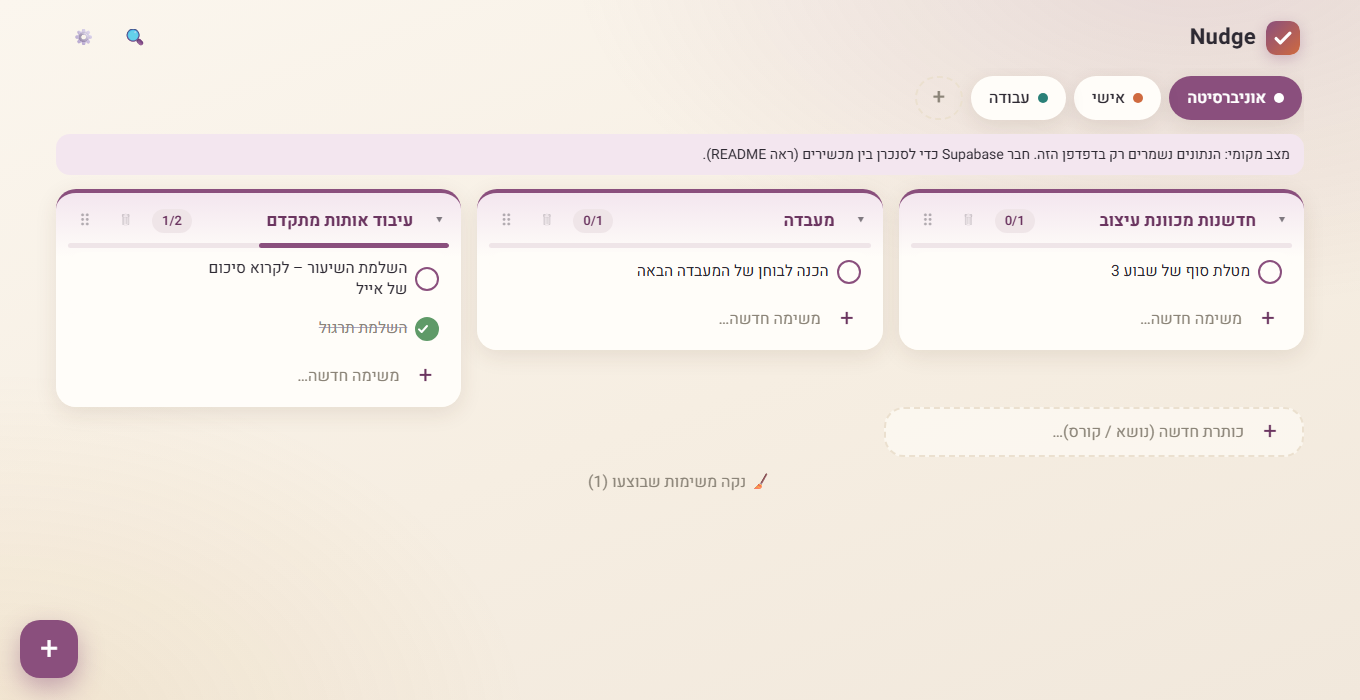
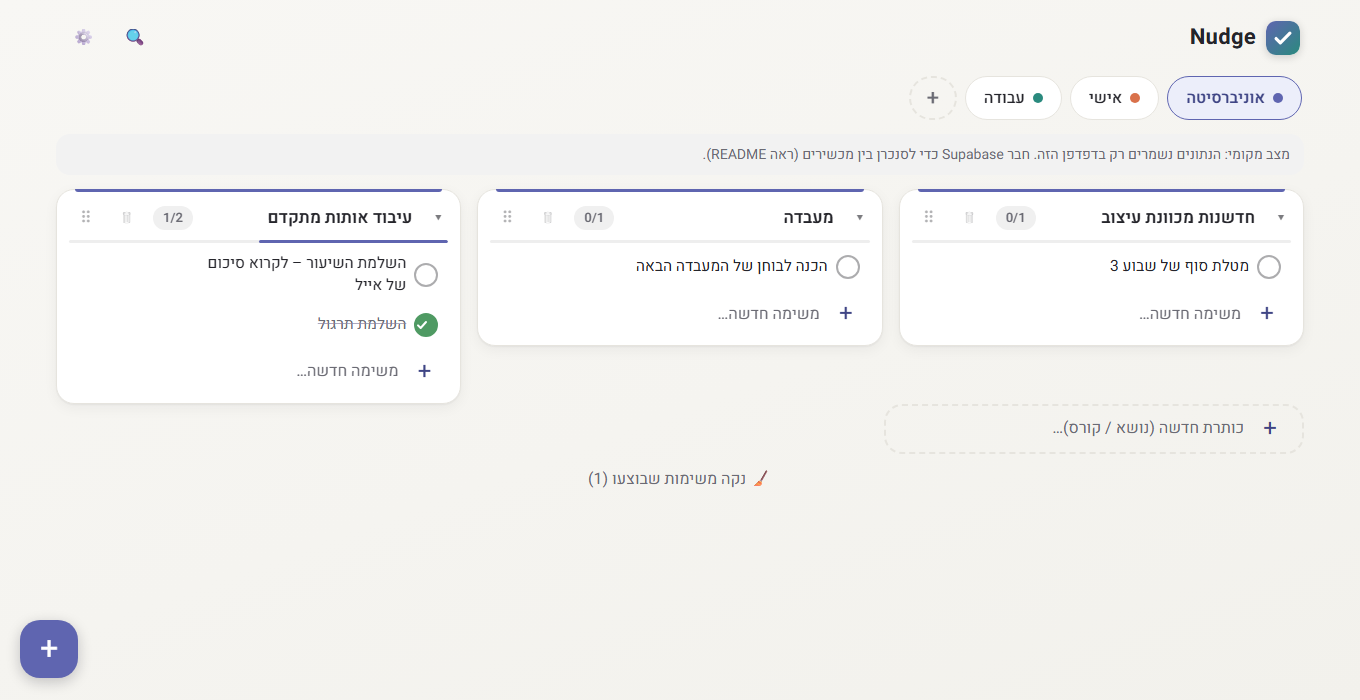
Calmer, more readable look: neutral surfaces, color used sparingly

diff --git a/src/styles.css b/src/styles.css
@@ -1,40 +1,38 @@
-/* Palette: warm paper neutrals + muted, "complex" accent hues (plum, terracotta, sage, ochre, dusty blue...) */
+/* Palette: calm neutral surfaces; color is used sparingly (accent bar, active tab, checkmarks, progress). */
 :root {
-  --bg1: #fbf6ee;
-  --bg2: #f6eee2;
-  --bg3: #f1e8dc;
-  --surface: #fffdf9;
-  --text: #2e2a33;
-  --muted: #8b8478;
-  --line: #ebe0cf;
+  --bg1: #f8f7f4;
+  --bg2: #f5f4f0;
+  --bg3: #f2f1ec;
+  --surface: #ffffff;
+  --text: #25252b;
+  --muted: #6b6b74;
+  --line: #e6e4de;
   --danger: #c9433f;
-  --shadow: 0 6px 22px rgba(74, 48, 30, 0.10);
-  --c: #8a4f7d;
-  --soft-l: #f3e6ef;
-  --ink-l: #6b3560;
-  --radius: 20px;
+  --shadow: 0 1px 2px rgba(20, 20, 30, 0.05), 0 4px 14px rgba(20, 20, 30, 0.05);
+  --c: #5f65b0;
+  --soft-l: #eceefa;
+  --ink-l: #3f4585;
+  --radius: 18px;
 }
 body, .app { --soft: var(--soft-l); --ink: var(--ink-l); }
 
 @media (prefers-color-scheme: dark) {
   :root {
-    --bg1: #1b181d;
-    --bg2: #1f1a21;
-    --bg3: #251c22;
-    --surface: #27232b;
-    --text: #f2ece3;
-    --muted: #a39a8d;
-    --line: #3a343c;
+    --bg1: #17171a;
+    --bg2: #18181c;
+    --bg3: #1a1a1f;
+    --surface: #222226;
+    --text: #ececf0;
+    --muted: #9c9ca6;
+    --line: #35353c;
     --danger: #e5645f;
-    --shadow: 0 6px 22px rgba(0, 0, 0, 0.4);
+    --shadow: 0 1px 2px rgba(0, 0, 0, 0.3), 0 4px 14px rgba(0, 0, 0, 0.25);
   }
   body, .app {
-    --soft: color-mix(in srgb, var(--c) 22%, var(--surface));
-    --ink: color-mix(in srgb, var(--c) 52%, #ffffff);
+    --soft: color-mix(in srgb, var(--c) 20%, var(--surface));
+    --ink: color-mix(in srgb, var(--c) 45%, #ffffff);
   }
-  .tab { background: rgba(255, 255, 255, 0.06); }
-  .tab.active { background: var(--c) !important; }
-  .chip { background: rgba(255, 255, 255, 0.08) !important; }
+  .tab { background: rgba(255, 255, 255, 0.05); }
 }
 
 * { box-sizing: border-box; -webkit-tap-highlight-color: transparent; }
@@ -232,25 +230,37 @@ h1, h2, h3, p { margin: 0; }
 .choice.on { border-color: var(--c); background: var(--soft); }
 .choice.on b { color: var(--c); }
 
-/* ---- refined color treatment ---- */
-.app::before {
-  content: ''; position: fixed; inset: 0; z-index: -1; pointer-events: none;
-  background:
-    radial-gradient(900px 520px at 88% -8%, color-mix(in srgb, var(--c) 15%, transparent), transparent 70%),
-    radial-gradient(760px 520px at 0% 105%, color-mix(in srgb, #d4a24a 12%, transparent), transparent 70%);
+/* ---- calm color treatment ---- */
+.card { border: 1px solid var(--line); border-top-width: 1px; background: var(--surface); position: relative; }
+.card::before {
+  content: ''; position: absolute; top: -1px; inset-inline: 18px; height: 3px;
+  border-radius: 0 0 4px 4px; background: var(--c);
 }
-.card { border-top-width: 4px; background: linear-gradient(180deg, var(--soft) 0, var(--surface) 64px); }
-.card-head h2, .count, .chip, .add-inline .plus, .quick button, .choice.on b { color: var(--ink); }
-.count, .chip { background: color-mix(in srgb, var(--c) 14%, var(--surface)) !important; }
-.progress { background: color-mix(in srgb, var(--c) 14%, var(--surface)); }
-.primary { box-shadow: 0 6px 16px color-mix(in srgb, var(--c) 35%, transparent); }
-.task.done .check { background: #5f9a68; border-color: #5f9a68; }
-.reminder-banner { background: linear-gradient(90deg, #f6e1b0, #f1c9b3); color: #4a2f22; }
-.error-banner { background: color-mix(in srgb, var(--danger) 14%, var(--surface)); }
-.toast { background: #2e2a33; }
+.card-head h2 { color: var(--text); font-weight: 600; }
+.count { background: color-mix(in srgb, var(--text) 7%, var(--surface)) !important; color: var(--muted); }
+.chip { background: color-mix(in srgb, var(--c) 12%, var(--surface)) !important; color: var(--ink); }
+.add-inline .plus, .choice.on b, .quick button { color: var(--ink); }
+.progress { height: 3px; background: color-mix(in srgb, var(--text) 8%, var(--surface)); }
+.tab { border: 1px solid var(--line); box-shadow: none; }
+.tab.active { background: var(--soft); color: var(--ink); border-color: var(--c); font-weight: 600; }
+.tab.active .dot { background: var(--c); }
+.tab.add { border: 2px dashed var(--line); }
+.check { border-color: color-mix(in srgb, var(--text) 38%, transparent); }
+.check:hover { border-color: var(--c); }
+.task.done .check { background: #4f9a63; border-color: #4f9a63; }
+.primary { box-shadow: none; }
+.fab {
+  width: 52px; height: 52px; border-radius: 16px; font-size: 28px;
+  box-shadow: 0 4px 14px rgba(20, 20, 30, 0.22);
+}
+.notice { background: color-mix(in srgb, var(--text) 6%, var(--surface)); color: var(--muted); }
+.reminder-banner { background: #fff3d6; color: #5a4310; border: 1px solid #f0dca6; box-shadow: none; }
+.error-banner { background: color-mix(in srgb, var(--danger) 12%, var(--surface)); }
+.toast { background: #2b2b31; }
 .toast button { color: #f0c36a; }
-.new-section { background: color-mix(in srgb, var(--surface) 60%, transparent); }
-.login-card .logo, .brand img { box-shadow: 0 4px 14px rgba(138, 79, 125, 0.3); }
+.new-section { background: transparent; border: 2px dashed var(--line); }
+.login-card .logo, .brand img { box-shadow: 0 2px 8px rgba(20, 20, 30, 0.18); }
+.sync-chip { background: #fff3d6; color: #5a4310; }
 
 /* ---- drag & drop ---- */
 .handle { cursor: grab; touch-action: none; opacity: 0.35; font-size: 17px; letter-spacing: -2px; }
@@ -288,7 +298,7 @@ h1, h2, h3, p { margin: 0; }
 .fab {
   position: fixed; inset-inline-end: 20px; bottom: calc(22px + env(safe-area-inset-bottom)); z-index: 15;
   width: 58px; height: 58px; border-radius: 20px; background: var(--c); color: #fff; font-size: 32px; line-height: 1;
-  box-shadow: 0 10px 26px color-mix(in srgb, var(--c) 45%, transparent); transition: transform 0.15s;
+  transition: transform 0.15s;
 }
 .fab:active { transform: scale(0.93); }
 .clear-done { display: block; margin: 4px auto 0; color: var(--muted); padding: 10px 16px; border-radius: 12px; }

diff --git a/src/types.ts b/src/types.ts
@@ -30,13 +30,13 @@ export const REPEAT_LABELS: Record<Repeat, string> = {
   monthly: 'כל חודש',
 }
 
-// Muted, layered hues. hex = accent, soft = light tint, ink = darker readable text tone.
+// Calm, slightly muted hues. hex = accent, soft = light tint, ink = darker readable text tone.
 export const COLORS: Record<string, { name: string; hex: string; soft: string; ink: string }> = {
-  violet: { name: 'שזיף', hex: '#8a4f7d', soft: '#f3e6ef', ink: '#6b3560' },
-  blue: { name: 'כחול אבק', hex: '#4a6a9c', soft: '#e4ebf5', ink: '#2f4a78' },
-  teal: { name: 'ירוק ים', hex: '#2a8078', soft: '#dff0ed', ink: '#1d5f5a' },
-  green: { name: 'מרווה', hex: '#6f8f4e', soft: '#ecf0df', ink: '#4d6a33' },
-  gold: { name: 'חרדל', hex: '#c99a2e', soft: '#f6ecd0', ink: '#8f6a14' },
-  orange: { name: 'טרקוטה', hex: '#cf6a3f', soft: '#f9e6dc', ink: '#a3482a' },
-  pink: { name: 'ורוד אבק', hex: '#c4577a', soft: '#f8e3ea', ink: '#9a3558' },
+  violet: { name: 'אינדיגו', hex: '#5f65b0', soft: '#eceefa', ink: '#3f4585' },
+  blue: { name: 'תכלת', hex: '#3b82b6', soft: '#e5f1f8', ink: '#24618f' },
+  teal: { name: 'ירוק ים', hex: '#2a8a7e', soft: '#e0f2ef', ink: '#1b665d' },
+  green: { name: 'מרווה', hex: '#5f9150', soft: '#e9f1e5', ink: '#3f6b33' },
+  gold: { name: 'חרדל', hex: '#c28f1f', soft: '#f8efd5', ink: '#85600a' },
+  orange: { name: 'אלמוג', hex: '#d9714b', soft: '#fbe9e1', ink: '#a34a28' },
+  pink: { name: 'ורדרד', hex: '#c95b82', soft: '#f9e5ec', ink: '#9a3a5e' },
 }

diff --git a/index.html b/index.html
@@ -3,7 +3,7 @@
   <head>
     <meta charset="UTF-8" />
     <meta name="viewport" content="width=device-width, initial-scale=1, viewport-fit=cover" />
-    <meta name="theme-color" content="#8a4f7d" />
+    <meta name="theme-color" content="#5f65b0" />
     <link rel="icon" type="image/svg+xml" href="favicon.svg" />
     <link rel="apple-touch-icon" href="icon-192.png" />
     <link rel="preconnect" href="https://fonts.googleapis.com" />

diff --git a/vite.config.ts b/vite.config.ts
@@ -24,8 +24,8 @@ export default defineConfig({
         start_url: base,
         scope: base,
         display: 'standalone',
-        background_color: '#fbf6ee',
-        theme_color: '#8a4f7d',
+        background_color: '#f8f7f4',
+        theme_color: '#5f65b0',
         icons: [
           { src: 'icon-192.png', sizes: '192x192', type: 'image/png' },
           { src: 'icon-512.png', sizes: '512x512', type: 'image/png' },
